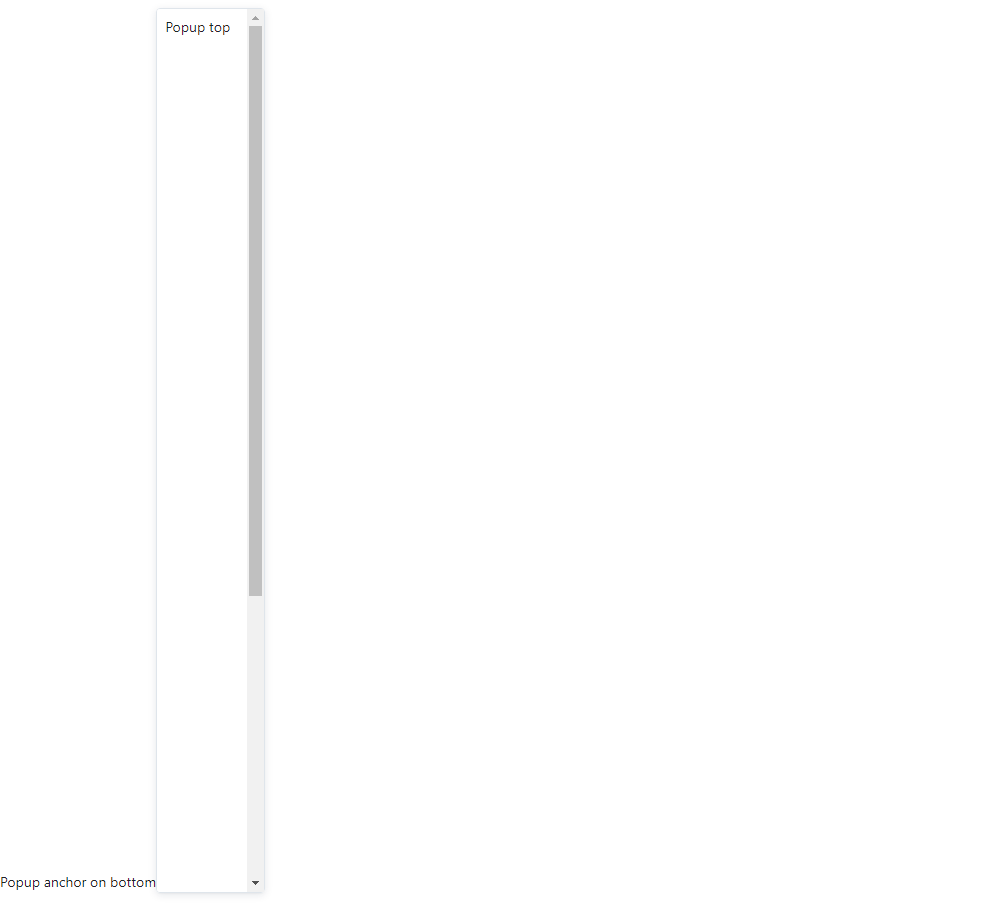
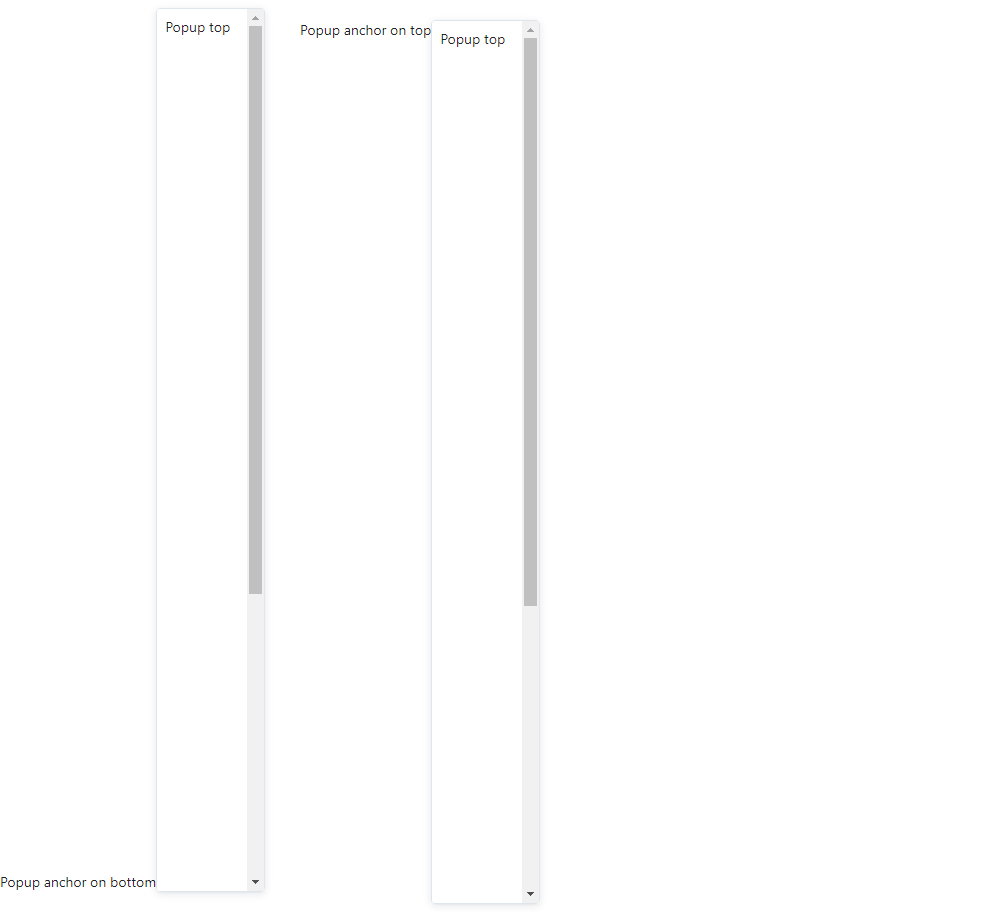
RG-2243 use same `maxHeightForDirection` fn that already works pretty well for Select

Changed region(s): [[0.3075, 0.0307, 0.5536, 0.6754]]

diff --git a/src/popup/position.ts b/src/popup/position.ts
@@ -145,52 +145,11 @@ const defaultcontainerRect = {
   left: 0
 };
 
-interface TopOffScreenParams {
-  sidePadding: number
-  styles: PositionStyles
-  anchorRect: Rect
-  maxHeight: number | 'screen' | null | undefined
-  popupScrollHeight: number
-  direction: Directions | null
-  scroll: Position
-}
-
-function handleTopOffScreen({
-  sidePadding, styles, anchorRect, maxHeight, popupScrollHeight, direction, scroll
-}: TopOffScreenParams) {
-  const BORDER_COMPENSATION = 1;
-  const {TOP_LEFT, TOP_RIGHT, TOP_CENTER, RIGHT_TOP, LEFT_TOP} = Directions;
-
-  const openedToTop =
-    direction != null && [TOP_LEFT, TOP_RIGHT, TOP_CENTER, RIGHT_TOP, LEFT_TOP].includes(direction);
-
-  if (!openedToTop) {
-    return styles;
-  }
-
-  const isAttachedToAnchorTop =
-    direction != null && [TOP_LEFT, TOP_CENTER, TOP_RIGHT].includes(direction);
-  const attachingPointY = (isAttachedToAnchorTop ? anchorRect.top : anchorRect.bottom);
-
-  const effectiveHeight = maxHeight && typeof maxHeight === 'number'
-    ? Math.min(popupScrollHeight, maxHeight)
-    : popupScrollHeight;
-  const hypotheticalTop = attachingPointY - effectiveHeight;
-
-  if (hypotheticalTop <= sidePadding) {
-    styles.top = sidePadding + scroll.top;
-    styles.maxHeight = attachingPointY - sidePadding + BORDER_COMPENSATION;
-  }
-
-  return styles;
-}
-
-
 export function maxHeightForDirection(
   direction: Directions,
   anchorNode: Element,
   containerNode?: Element | null
-) {
+): number {
   const container = containerNode || document.documentElement;
   const domRect = anchorNode.getBoundingClientRect();
   const containerRect = container.getBoundingClientRect();
@@ -199,7 +158,7 @@ export function maxHeightForDirection(
     // XXX
     // If container is the document element
     // then we check client height too because we may have situation when
-    // "height" from "getBoundingClientRect" less then "clientHeight".
+    // "height" from "getBoundingClientRect" less than "clientHeight".
     container === document.documentElement ? container.clientHeight : 0);
   const bottomMaxHeight = Math.max(containerHeight - (topMaxHeight + domRect.height), 0);
   switch (direction) {
@@ -221,7 +180,8 @@ export function maxHeightForDirection(
     case Directions.LEFT_CENTER:
       return (domRect.height / 2) + Math.min(bottomMaxHeight / 2, topMaxHeight / 2);
     default:
-      return null;
+      const exhaustiveCheck: never = direction;
+      throw new Error(exhaustiveCheck);
   }
 }
 
@@ -293,16 +253,11 @@ export default function position(attrs: PositionAttrs) {
     styles.maxHeight = maxHeight;
   }
 
-  if (autoCorrectTopOverflow) {
-    styles = handleTopOffScreen({
-      sidePadding,
-      styles,
-      anchorRect,
-      maxHeight,
-      direction: chosenDirection,
-      popupScrollHeight: popup?.scrollHeight ?? 0,
-      scroll
-    });
+  if (autoCorrectTopOverflow && chosenDirection && anchor) {
+    styles.maxHeight = maxHeightForDirection(chosenDirection, anchor, container) - sidePadding;
+    if (styles.top === 0) {
+      styles.top = sidePadding;
+    }
   }
 
   if (minWidth === MinWidth.TARGET || minWidth === 'target') {

diff --git a/src/popup/popup.examples.tsx b/src/popup/popup.examples.tsx
@@ -308,14 +308,26 @@ insideAScrollableContainer.parameters = {
 
 export const fitsScreen = () => {
   const PopupDemo = (
-    <div className="anchorBottom">
-      Popup anchor on bottom
-      <Popup maxHeight={1380}>
-        <div className="popupContent">
-          <div>Popup top</div>
-          <div>popup bottom</div>
-        </div>
-      </Popup>
+    <div>
+      <div className="anchorBottom">
+        Popup anchor on bottom
+        <Popup>
+          <div className="popupContent">
+            <div>Popup top</div>
+            <div>popup bottom</div>
+          </div>
+        </Popup>
+      </div>
+
+      <div className="anchorTop">
+        Popup anchor on top
+        <Popup>
+          <div className="popupContent">
+            <div>Popup top</div>
+            <div>popup bottom</div>
+          </div>
+        </Popup>
+      </div>
     </div>
   );
 
@@ -348,6 +360,12 @@ fitsScreen.parameters = {
     .anchorBottom {
       position: absolute;
       bottom: 20px;
+    }
+
+    .anchorTop {
+      position: absolute;
+      left: 300px;
+      top: 20px;
     }
 </style>
       `
